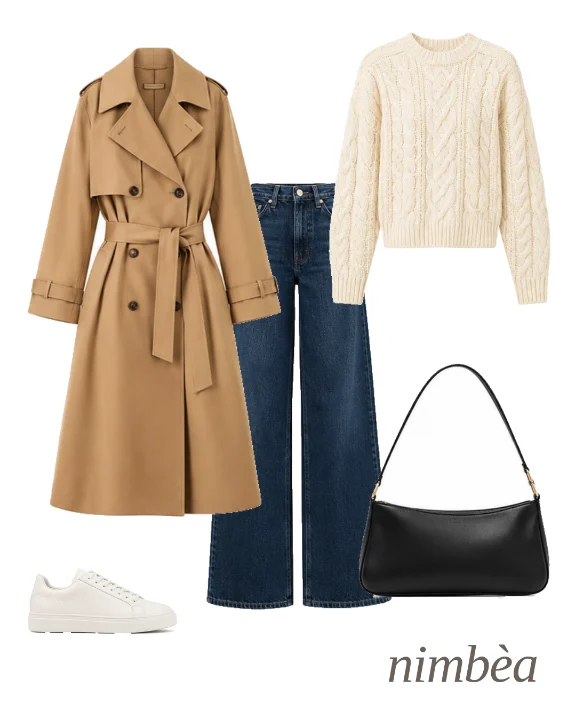
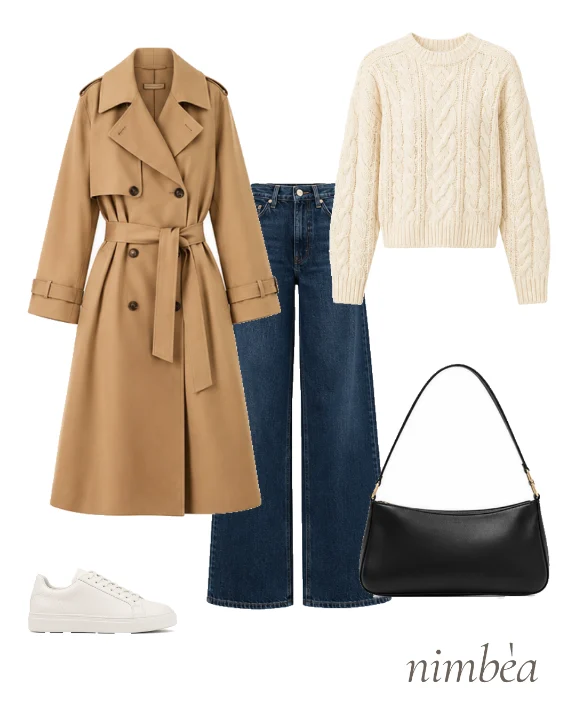
Vendi: copia campo per campo, stima mai sopra il pagato, via il terzo prezzo (#619)
* Vendi: copia campo per campo, stima mai sopra il pagato, via il terzo prezzo

- Scheda «Vendi questo capo»: pulsante copia per titolo, descrizione, prezzo
  e per marca, taglia, colore, materiali e condizioni; resta «Copia tutto».
- Stima di rivendita: per l'abbigliamento il massimo non supera il prezzo
  pagato. Eccezioni: prezzo di oggi almeno 1,5 volte il pagato (anche dalla
  pagina prodotto, che allora fa da base) e alto lusso (profilo modello, o
  borse/scarpe/accessori di brand con modifier >= 1,15).
- «Prezzo retail all'acquisto» tolto da Aggiungi e Modifica: non entrava
  nella stima. La colonna resta, l'import la compila come prima e i valori
  salvati non vengono toccati.
- Guida aggiornata in 5 lingue.

Claude-Session: https://claude.ai/code/session_014h6mpT5LYeEg9kQdWqKx26

* Presentazione: firma «nimbèa» della tela nel carattere giusto

L'immagine di esempio era stata composta senza Cormorant caricato, e la firma
era venuta con il serif di ripiego, più pesante. Ricomposta con
composeOutfitImage e Cormorant 400 corsivo caricato davvero.

Claude-Session: https://claude.ai/code/session_014h6mpT5LYeEg9kQdWqKx26

---------

Changed region(s): [[0.6562, 0.8861, 0.9375, 0.9472]]

diff --git a/src/components/aura/SellSheet.tsx b/src/components/aura/SellSheet.tsx
@@ -16,9 +16,20 @@ export type SellPiece = {
   colors?: string[] | null; size?: string | null; material?: string[] | null; currency?: string | null;
 };
 
+/** A small "copy" button next to one field of the listing: resale sites ask for each in its own box. */
+function CopyField({ label, onCopy }: { label: string; onCopy: () => void }) {
+  return (
+    <button type="button" onClick={onCopy} aria-label={label} title={label}
+      className="h-8 w-8 shrink-0 rounded-full border border-border flex items-center justify-center active:scale-90">
+      <Copy size={13} />
+    </button>
+  );
+}
+
 /** "Vendi questo capo": the listing ready to paste on any resale site — title, description,
  *  condition, suggested price (from the resale range of the piece's "Valore") and its photo, already
- *  without background. "Segna come venduto" archives the piece. */
+ *  without background. Each field has its own copy button (sites ask for them one by one), plus one
+ *  to copy everything. "Segna come venduto" archives the piece. */
 export function SellSheet({ piece, imageUrl, resaleLow, resaleHigh, onSold, onClose }: {
   piece: SellPiece; imageUrl: string; resaleLow: number | null; resaleHigh: number | null;
   onSold: () => void; onClose: () => void;
@@ -40,16 +51,27 @@ export function SellSheet({ piece, imageUrl, resaleLow, resaleHigh, onSold, onCl
   const price = suggestedPrice(resaleLow, resaleHigh, condition);
   const symbol = piece.currency === "USD" ? "$" : piece.currency === "GBP" ? "£" : "€";
 
-  const copy = async () => {
-    const text = [title ?? listing.title, "", description ?? listing.description, price != null ? `\n${t("sell.priceLine", { price: `${price} ${symbol}` })}` : ""].join("\n").trim();
+  const copyText = async (text: string, field: string) => {
     try {
       await navigator.clipboard.writeText(text);
-      track("flow_step", { feature: "sell", step: "copied", condition });
-      toast.success(t("sell.copied"));
+      track("flow_step", { feature: "sell", step: "copied", condition, field });
+      toast.success(field === "all" ? t("sell.copied") : t("sell.fieldCopied"));
     } catch {
       toast.error(t("sell.copyFailed"));
     }
   };
+  const copy = () => copyText(
+    [title ?? listing.title, "", description ?? listing.description, price != null ? `\n${t("sell.priceLine", { price: `${price} ${symbol}` })}` : ""].join("\n").trim(),
+    "all",
+  );
+  // The details the sites ask for in their own boxes, each to copy on its own.
+  const details = [
+    { key: "brand", label: t("sell.brand"), value: piece.brand?.trim() || null },
+    { key: "size", label: t("sell.size"), value: piece.size?.trim() || null },
+    { key: "color", label: t("sell.color"), value: piece.colors?.length ? piece.colors.map((c) => colorName(c, i18n.language)).join(", ") : null },
+    { key: "materials", label: t("sell.materials"), value: (piece.material ?? []).map((m) => t(`materials.${m}`, { defaultValue: m })).join(", ") || null },
+    { key: "condition", label: t("sell.condition"), value: t(`sell.conditions.${condition}`) },
+  ].filter((d): d is { key: string; label: string; value: string } => !!d.value);
 
   const savePhoto = async () => {
     try {
@@ -106,7 +128,10 @@ export function SellSheet({ piece, imageUrl, resaleLow, resaleHigh, onSold, onCl
         <p className="mt-5 text-[10px] uppercase tracking-[0.25em] text-muted-foreground">{t("sell.suggestedPrice")}</p>
         {price != null ? (
           <>
-            <p className="mt-1 font-serif text-2xl">{price} {symbol}</p>
+            <div className="mt-1 flex items-center gap-2">
+              <p className="font-serif text-2xl">{price} {symbol}</p>
+              <CopyField label={t("sell.copyField", { field: t("sell.suggestedPrice") })} onCopy={() => void copyText(String(price), "price")} />
+            </div>
             <p className="text-[11px] text-muted-foreground">{t("sell.priceHint")}</p>
           </>
         ) : (
@@ -114,11 +139,29 @@ export function SellSheet({ piece, imageUrl, resaleLow, resaleHigh, onSold, onCl
         )}
 
         <label className="block mt-5 text-[10px] uppercase tracking-[0.25em] text-muted-foreground">{t("sell.titleLabel")}</label>
-        <input value={title ?? listing.title} onChange={(e) => setTitle(e.target.value.slice(0, 60))}
-          className="mt-1.5 w-full rounded-xl border border-border bg-background px-3 py-2 text-sm" />
-        <label className="block mt-4 text-[10px] uppercase tracking-[0.25em] text-muted-foreground">{t("sell.descriptionLabel")}</label>
+        <div className="mt-1.5 flex items-center gap-2">
+          <input value={title ?? listing.title} onChange={(e) => setTitle(e.target.value.slice(0, 60))}
+            className="min-w-0 flex-1 rounded-xl border border-border bg-background px-3 py-2 text-sm" />
+          <CopyField label={t("sell.copyField", { field: t("sell.titleLabel") })} onCopy={() => void copyText(title ?? listing.title, "title")} />
+        </div>
+        <div className="mt-4 flex items-center justify-between gap-2">
+          <label className="block text-[10px] uppercase tracking-[0.25em] text-muted-foreground">{t("sell.descriptionLabel")}</label>
+          <CopyField label={t("sell.copyField", { field: t("sell.descriptionLabel") })} onCopy={() => void copyText(description ?? listing.description, "description")} />
+        </div>
         <textarea value={description ?? listing.description} onChange={(e) => setDescription(e.target.value)} rows={7}
           className="mt-1.5 w-full rounded-xl border border-border bg-background px-3 py-2 text-[13px] leading-relaxed" />
+
+        {details.length > 0 && (
+          <ul className="mt-4 divide-y divide-border/60 rounded-xl border border-border">
+            {details.map((d) => (
+              <li key={d.key} className="flex items-center gap-2 px-3 py-1.5">
+                <span className="w-24 shrink-0 text-[10px] uppercase tracking-[0.2em] text-muted-foreground">{d.label}</span>
+                <span className="min-w-0 flex-1 truncate text-[13px]">{d.value}</span>
+                <CopyField label={t("sell.copyField", { field: d.label })} onCopy={() => void copyText(d.value, d.key)} />
+              </li>
+            ))}
+          </ul>
+        )}
 
         <button onClick={() => void copy()}
           className="mt-5 w-full h-12 rounded-full bg-foreground text-background text-[10px] uppercase tracking-[0.3em] inline-flex items-center justify-center gap-1.5 active:scale-95">

diff --git a/src/components/aura/screens/Wardrobe.tsx b/src/components/aura/screens/Wardrobe.tsx
@@ -215,7 +215,6 @@ export function Wardrobe({ go, gapFilter, onClearGapFilter, openBuilder, openSty
     currency: "EUR",
     purchaseDate: "" as string,
     currentRetailPrice: "" as string,
-    historicalRetailPrice: "" as string,
     iconicity: "" as Iconicity | "",
     model: "" as string,
     bagSizeClass: "" as string,
@@ -255,7 +254,6 @@ export function Wardrobe({ go, gapFilter, onClearGapFilter, openBuilder, openSty
       currency: (detail.currency && CURRENCY_OPTIONS.includes(detail.currency)) ? detail.currency : "EUR",
       purchaseDate: (detail as unknown as { purchase_date?: string | null }).purchase_date ?? "",
       currentRetailPrice: raw.current_retail_price != null ? String(raw.current_retail_price) : "",
-      historicalRetailPrice: raw.historical_retail_price != null ? String(raw.historical_retail_price) : "",
       iconicity: raw.iconicity ?? "",
       model: raw.model ?? "",
       bagSizeClass: raw.bag_size_class ?? "",
@@ -293,8 +291,6 @@ export function Wardrobe({ go, gapFilter, onClearGapFilter, openBuilder, openSty
       if (priceNum != null && !Number.isFinite(priceNum)) throw new Error(t("wardrobe.invalidPrice"));
       const retailNum = edit.currentRetailPrice.trim() === "" ? null : Number(edit.currentRetailPrice);
       if (retailNum != null && !Number.isFinite(retailNum)) throw new Error(t("wardrobe.invalidPrice"));
-      const historicalRetailNum = edit.historicalRetailPrice.trim() === "" ? null : Number(edit.historicalRetailPrice);
-      if (historicalRetailNum != null && !Number.isFinite(historicalRetailNum)) throw new Error(t("wardrobe.invalidPrice"));
 
       const sameArray = (a: string[], b: string[] | null | undefined) => {
         const bb = b ?? [];
@@ -344,8 +340,6 @@ export function Wardrobe({ go, gapFilter, onClearGapFilter, openBuilder, openSty
         current_retail_price: retailNum,
         current_retail_source: retailNum != null ? "user" : null,
         current_retail_updated_at: retailNum != null ? new Date().toISOString() : null,
-        historical_retail_price: historicalRetailNum,
-        historical_retail_source: historicalRetailNum != null ? "user" : null,
         iconicity: edit.iconicity || null,
         model: edit.model.trim() || null,
         bag_size_class: edit.bagSizeClass || null,
@@ -2208,22 +2202,6 @@ export function Wardrobe({ go, gapFilter, onClearGapFilter, openBuilder, openSty
                     />
                   </div>
                   <p className="mt-1.5 text-[10px] text-muted-foreground px-1">{t("wardrobe.currentRetailPriceHint")}</p>
-                </div>
-
-                <div>
-                  <p className="text-[10px] uppercase tracking-[0.3em] text-muted-foreground">{t("wardrobe.historicalRetailPriceLabel")}</p>
-                  <div className="mt-2 flex items-center gap-2">
-                    <span className="text-sm text-muted-foreground w-6 text-center">{currencySymbol[edit.currency]}</span>
-                    <input
-                      type="number"
-                      inputMode="decimal"
-                      value={edit.historicalRetailPrice}
-                      onChange={(e) => setEdit((s) => ({ ...s, historicalRetailPrice: e.target.value }))}
-                      placeholder={t("wardrobe.historicalRetailPricePlaceholder")}
-                      className="flex-1 bg-secondary/60 rounded-full px-4 py-2.5 text-sm outline-none placeholder:text-muted-foreground"
-                    />
-                  </div>
-                  <p className="mt-1.5 text-[10px] text-muted-foreground px-1">{t("wardrobe.historicalRetailPriceHint")}</p>
                 </div>
 
                 <div>

diff --git a/src/lib/wardrobe-value-engine.ts b/src/lib/wardrobe-value-engine.ts
@@ -16,6 +16,13 @@
 //    è quella mostrata come "confidence" principale in UI.
 // 5. Plausibility: se l'anchor è current_retail e non siamo in un caso di
 //    market_premium sourced, resale_high non supera mai l'anchor.
+// 6. Mai sopra il prezzo pagato: un capo usato raramente si rivende a più di
+//    quanto è costato. Fanno eccezione solo (a) il retail di oggi molto più alto
+//    del pagato (≥ RETAIL_JUMP volte: pagato 50, oggi 400) — in quel caso il
+//    prezzo della pagina prodotto (import) fa da anchor anche se non verificato,
+//    perché può solo alzare la stima e resta comunque il tetto; (b) l'alto lusso:
+//    un profilo modello (Birkin, Rolex…) o borse, scarpe e accessori di un brand
+//    con modifier ≥ HIGH_LUXURY_BRAND_MODIFIER.
 //
 // Pure/testabile senza DB — fetchValuationConfig() è l'unica funzione che
 // tocca Supabase, in fondo al file.
@@ -42,6 +49,11 @@ export type ValuationLevel =
   | "none";
 
 const ANCHOR_ELIGIBLE_SOURCES: ReadonlySet<CurrentRetailSource> = new Set(["user", "ai_lookup_verified"]);
+/** Fonti del retail di oggi che possono alzare la stima quando è molto sopra il pagato (punto 6). */
+const RETAIL_JUMP_SOURCES: ReadonlySet<CurrentRetailSource> = new Set(["user", "ai_lookup_verified", "import", "product_link"]);
+export const RETAIL_JUMP = 1.5;
+export const HIGH_LUXURY_BRAND_MODIFIER = 1.15;
+const HIGH_LUXURY_CATEGORIES = new Set(["bags", "shoes", "accessories"]);
 
 export interface CategoryProfile {
   category: string;
@@ -271,7 +283,10 @@ export function computeItemValuation(input: ValuationInput, config: ValuationCon
   const wornCount = input.wornCount ?? 0;
 
   // ---- 1. ANCHOR SELECTION — solo fonti anchor-eligible fanno da anchor ----
-  const retailAnchorEligible = currentRetailPrice != null && currentRetailSource != null && ANCHOR_ELIGIBLE_SOURCES.has(currentRetailSource);
+  const retailJump =
+    currentRetailPrice != null && purchasePrice != null && purchasePrice > 0 && currentRetailSource != null &&
+    RETAIL_JUMP_SOURCES.has(currentRetailSource) && currentRetailPrice >= purchasePrice * RETAIL_JUMP;
+  const retailAnchorEligible = currentRetailPrice != null && currentRetailSource != null && (ANCHOR_ELIGIBLE_SOURCES.has(currentRetailSource) || retailJump);
   const anchorType: ValuationResult["anchorType"] = retailAnchorEligible ? "current_retail" : purchasePrice != null ? "purchase_price" : null;
   const anchorValue = retailAnchorEligible ? currentRetailPrice : purchasePrice ?? null;
 
@@ -389,6 +404,16 @@ export function computeItemValuation(input: ValuationInput, config: ValuationCon
     } else if (resaleCenter > anchorValue) {
       marketPremium = true; // nessun clamp — caso sourced (Prada, Rolex, Birkin/Kelly)
     }
+  }
+
+  // ---- 8. MAI SOPRA IL PAGATO — salvo retail di oggi molto più alto o alto lusso ----
+  const highLuxury =
+    modelProfile != null ||
+    (brand.matched && brand.modifier >= HIGH_LUXURY_BRAND_MODIFIER && HIGH_LUXURY_CATEGORIES.has((input.category ?? "").trim().toLowerCase()));
+  if (purchasePrice != null && purchasePrice > 0 && !retailJump && !highLuxury && resaleHigh > purchasePrice) {
+    resaleHigh = purchasePrice;
+    resaleLow = Math.min(resaleLow, resaleHigh);
+    breakdown.cappedAtPurchasePrice = true;
   }
 
   const resaleChangeVsPurchase =

diff --git a/src/lib/wardrobe-value-engine.test.ts b/src/lib/wardrobe-value-engine.test.ts
@@ -181,3 +181,42 @@ test("Plausibility: senza market premium sourced, resale_high non supera mai il 
   );
   assert.ok(r.resaleHigh! <= 200, `resaleHigh (${r.resaleHigh}) ha superato il retail senza essere un market premium sourced`);
 });
+
+test("Mai sopra il pagato: un capo d'abbigliamento non si rivende a più di quanto è costato", () => {
+  const r = computeItemValuation(
+    baseInput({ price: 128, purchaseDate: "2026-08-01", category: "Tops", subcategory: "T-Shirt", wornCount: 0 }),
+    CONFIG
+  );
+  assert.ok(r.resaleHigh! <= 128, `resaleHigh ${r.resaleHigh}`);
+  assert.ok(r.resaleLow! <= r.resaleHigh!);
+  // Anche se oggi costa poco di più (o uguale, o meno).
+  const similar = computeItemValuation(
+    baseInput({ price: 128, currentRetailPrice: 140, currentRetailSource: "import", purchaseDate: "2026-08-01", category: "Tops", subcategory: "T-Shirt" }),
+    CONFIG
+  );
+  assert.ok(similar.resaleHigh! <= 128);
+});
+
+test("Pagato 50, oggi costa 400 (anche dalla pagina prodotto): la stima può superare il pagato, mai il prezzo di oggi", () => {
+  const r = computeItemValuation(
+    baseInput({ price: 50, currentRetailPrice: 400, currentRetailSource: "import", purchaseDate: "2026-08-01", category: "Outerwear", subcategory: "Leather Jacket" }),
+    CONFIG
+  );
+  assert.equal(r.anchorType, "current_retail");
+  assert.ok(r.resaleHigh! > 50 && r.resaleHigh! <= 400, `resaleHigh ${r.resaleHigh}`);
+});
+
+test("Alto lusso: borse/accessori di brand top o con profilo modello possono superare il pagato", () => {
+  const rolex = computeItemValuation(
+    baseInput({ price: 8000, purchaseDate: "2026-08-01", category: "Accessories", subcategory: "Watch", brand: "Rolex" }),
+    CONFIG
+  );
+  assert.ok(rolex.resaleHigh! > 8000);
+  const prada = computeItemValuation(
+    baseInput({ price: 1000, purchaseDate: "2026-08-01", category: "Bags", brand: "Prada", model: "Re-Edition" }),
+    CONFIG
+  );
+  assert.ok(prada.resaleHigh! > 1000);
+  const shoes = computeItemValuation(baseInput({ price: 300, purchaseDate: "2026-08-01", category: "Shoes" }), CONFIG);
+  assert.ok(shoes.resaleHigh! <= 300);
+});

diff --git a/src/components/aura/screens/AddItem.tsx b/src/components/aura/screens/AddItem.tsx
@@ -1527,19 +1527,8 @@ export function AddItem({ onClose, initialGarment }: {
                 {currentRetailFromImport ? t("addItem.currentRetailPriceFromImportHint") : t("addItem.currentRetailPriceHint")}
               </p>
             </div>
-            <div className="border-b border-border/60 pb-3">
-              <p className="text-[10px] uppercase tracking-[0.3em] text-muted-foreground">{t("addItem.historicalRetailPriceLabel")}</p>
-              <input
-                value={historicalRetailPrice}
-                onChange={(e) => { setHistoricalRetailPrice(e.target.value.replace(/[^0-9.,]/g, "")); setHistoricalRetailFromImport(false); }}
-                inputMode="decimal"
-                placeholder={t("addItem.historicalRetailPricePlaceholder")}
-                className="mt-1 w-full bg-transparent font-serif text-lg outline-none placeholder:text-muted-foreground/50"
-              />
-              <p className="mt-1 text-[10px] text-muted-foreground">
-                {historicalRetailFromImport ? t("addItem.historicalRetailPriceFromImportHint") : t("addItem.historicalRetailPriceHint")}
-              </p>
-            </div>
+            {/* «Prezzo retail all'acquisto» is not asked any more (it confused people and the estimate
+                does not use it): the product page still fills it, saved as before. */}
             <div className="border-b border-border/60 pb-3">
               <p className="text-[10px] uppercase tracking-[0.3em] text-muted-foreground">{t("addItem.modelLabel")}</p>
               <input

diff --git a/src/lib/guide/guide-text.fr.ts b/src/lib/guide/guide-text.fr.ts
@@ -138,7 +138,7 @@ const text: GuideText = {
       steps: [
         "Ouvrez la pièce, touchez « Options » puis « Vendre cette pièce ».",
         "Choisissez l'état : le prix conseillé s'adapte, d'après la valeur de revente estimée.",
-        "Vérifiez le titre et la description, enregistrez la photo (déjà détourée) et touchez « Copier l'annonce » : collez-la sur le site de revente de votre choix.",
+        "Vérifiez le titre et la description, enregistrez la photo (déjà détourée) et copiez chaque champ avec son bouton (titre, description, prix, taille…) ou touchez « Copier toute l'annonce », puis collez-la sur le site de revente de votre choix.",
         "Une fois vendue, touchez « Marquer comme vendue » : la pièce passe dans Archivées.",
       ],
       tip: "Dans Garde-robe, nous vous proposons les pièces que vous n'avez pas portées de toute une saison (6 mois pour celles de toutes saisons, 2 ans pour celles de cérémonie), si vous notez ce que vous portez. Avec « Je la garde », nous ne les reproposons pas avant un an.",

diff --git a/src/lib/guide/guide-text.it.ts b/src/lib/guide/guide-text.it.ts
@@ -138,7 +138,7 @@ const text: GuideText = {
       steps: [
         "Apri il capo, tocca «Opzioni» e poi «Vendi questo capo».",
         "Scegli le condizioni: il prezzo suggerito si adatta, in base al valore di rivendita stimato.",
-        "Controlla titolo e descrizione, salva la foto (è già senza sfondo) e tocca «Copia annuncio»: incollalo sul sito di vendita che preferisci.",
+        "Controlla titolo e descrizione, salva la foto (è già senza sfondo) e copia ogni campo con il suo pulsante (titolo, descrizione, prezzo, taglia…) oppure tocca «Copia tutto l'annuncio», e incollalo sul sito di vendita che preferisci.",
         "Quando l'hai venduto tocca «Segna come venduto»: il capo va in Archiviati.",
       ],
       tip: "In Guardaroba ti proponiamo i capi che non metti da un'intera stagione (6 mesi per quelli di tutte le stagioni, 2 anni per quelli da cerimonia), se segni ciò che indossi. Con «Lo tengo» non te li riproponiamo per un anno.",

diff --git a/src/lib/guide/guide-text.en.ts b/src/lib/guide/guide-text.en.ts
@@ -138,7 +138,7 @@ const text: GuideText = {
       steps: [
         "Open the piece, tap “Options” and then “Sell this piece”.",
         "Choose the condition: the suggested price adapts, based on the estimated resale value.",
-        "Check title and description, save the photo (already without background) and tap “Copy listing”: paste it on the resale site you prefer.",
+        "Check title and description, save the photo (already without background) and copy each field with its own button (title, description, price, size…) or tap “Copy the whole listing”, then paste it on the resale site you prefer.",
         "Once sold, tap “Mark as sold”: the piece moves to Archived.",
       ],
       tip: "In Closet we suggest the pieces you haven't worn for a whole season (6 months for all-season pieces, 2 years for occasion pieces), if you log what you wear. With “Keep it” we won't suggest them again for a year.",

diff --git a/src/lib/guide/guide-text.es.ts b/src/lib/guide/guide-text.es.ts
@@ -138,7 +138,7 @@ const text: GuideText = {
       steps: [
         "Abre la prenda, toca «Opciones» y luego «Vender esta prenda».",
         "Elige el estado: el precio sugerido se adapta, según el valor de reventa estimado.",
-        "Revisa título y descripción, guarda la foto (ya sin fondo) y toca «Copiar anuncio»: pégalo en la web de venta que prefieras.",
+        "Revisa título y descripción, guarda la foto (ya sin fondo) y copia cada campo con su botón (título, descripción, precio, talla…) o toca «Copiar todo el anuncio», y pégalo en la web de venta que prefieras.",
         "Cuando la vendas toca «Marcar como vendida»: la prenda pasa a Archivadas.",
       ],
       tip: "En Armario te proponemos las prendas que no usas desde toda una temporada (6 meses las de todas las temporadas, 2 años las de ceremonia), si registras lo que te pones. Con «Me la quedo» no te las volvemos a proponer en un año.",

diff --git a/src/lib/guide/guide-text.zh.ts b/src/lib/guide/guide-text.zh.ts
@@ -138,7 +138,7 @@ const text: GuideText = {
       steps: [
         "打开单品，点按“选项”，再点按“出售这件单品”。",
         "选择成色：建议价格会根据估算的转售价值自动调整。",
-        "检查标题和描述，保存照片（已去除背景），点按“复制商品信息”，然后粘贴到你喜欢的二手平台。",
+        "检查标题和描述，保存照片（已去除背景），用各自的按钮逐项复制（标题、描述、价格、尺码…），或点按“复制整条信息”，然后粘贴到你喜欢的二手平台。",
         "售出后点按“标记为已售出”：单品会移至已归档。",
       ],
       tip: "如果你记录穿着，衣橱会推荐整季没穿过的单品（四季单品为 6 个月，礼服类为 2 年）。点按“留着”后，一年内不会再推荐。",
